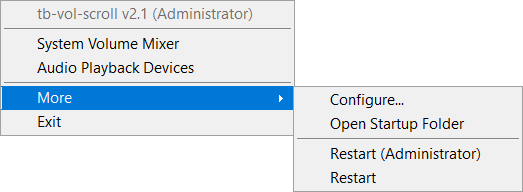
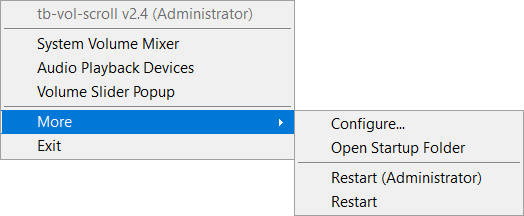
Bump version to 2.4

Changed region(s): [[0.0, 0.0, 1.0, 1.0], [0.6119, 0.9062, 0.7342, 0.9688]]

diff --git a/Properties/AssemblyInfo.cs b/Properties/AssemblyInfo.cs
@@ -32,5 +32,5 @@ using System.Runtime.InteropServices;
 // You can specify all the values or you can default the Build and Revision Numbers
 // by using the '*' as shown below:
 // [assembly: AssemblyVersion("1.0.*")]
-[assembly: AssemblyVersion("2.3")]
-[assembly: AssemblyFileVersion("2.3")]
+[assembly: AssemblyVersion("2.4")]
+[assembly: AssemblyFileVersion("2.4")]

diff --git a/README.md b/README.md
@@ -1,5 +1,5 @@
 [![Run on Repl.it](https://repl.it/badge/github/dvingerh/TbVolScroll)](https://repl.it/github/dvingerh/TbVolScroll) 
-## tb-vol-scroll 2.3
+## tb-vol-scroll 2.4
 
 Simple utility to enable volume control when your mouse cursor is positioned above the taskbar, among a few other options.
 
@@ -11,7 +11,7 @@ The volume bar will follow the cursor when it's moved around and display the cur
 - Hold <kbd>ALT</kbd>: Enable precise volume control.
 - Hold <kbd>CTRL</kbd>: Toggle system audio mute.
 - Hold <kbd>SHIFT</kbd>: Cycle through available audio playback devices.
-- <kbd>Middle Mouse Button</kbd> on Tray Icon: Open volume slider popup.
+- <kbd>Middle Mouse Button</kbd> on Tray Icon: Open popup with a volume slider in case scrolling is not available.
 
 ### Configure
 
@@ -20,7 +20,7 @@ The volume bar will follow the cursor when it's moved around and display the cur
   - Opacity
   - Text padding (affects volume bar size)
 
-- Behavior:
+- Behaviour:
   - Volume bar autohide time-out
   - Volume scroll step percentage
   - Precise volume control threshold
@@ -47,6 +47,10 @@ The volume bar will follow the cursor when it's moved around and display the cur
 
 #### Audio Playback Devices
 ![Audio Playback Devices](Images/audioplaybackdevices.png?raw=true)
+
+#### Volume Slider Popup
+
+![Tray menu](Images/volumesliderpopup.png?raw=true)
 
 #### Configure
 ![Configure](Images/configure.png?raw=true)
